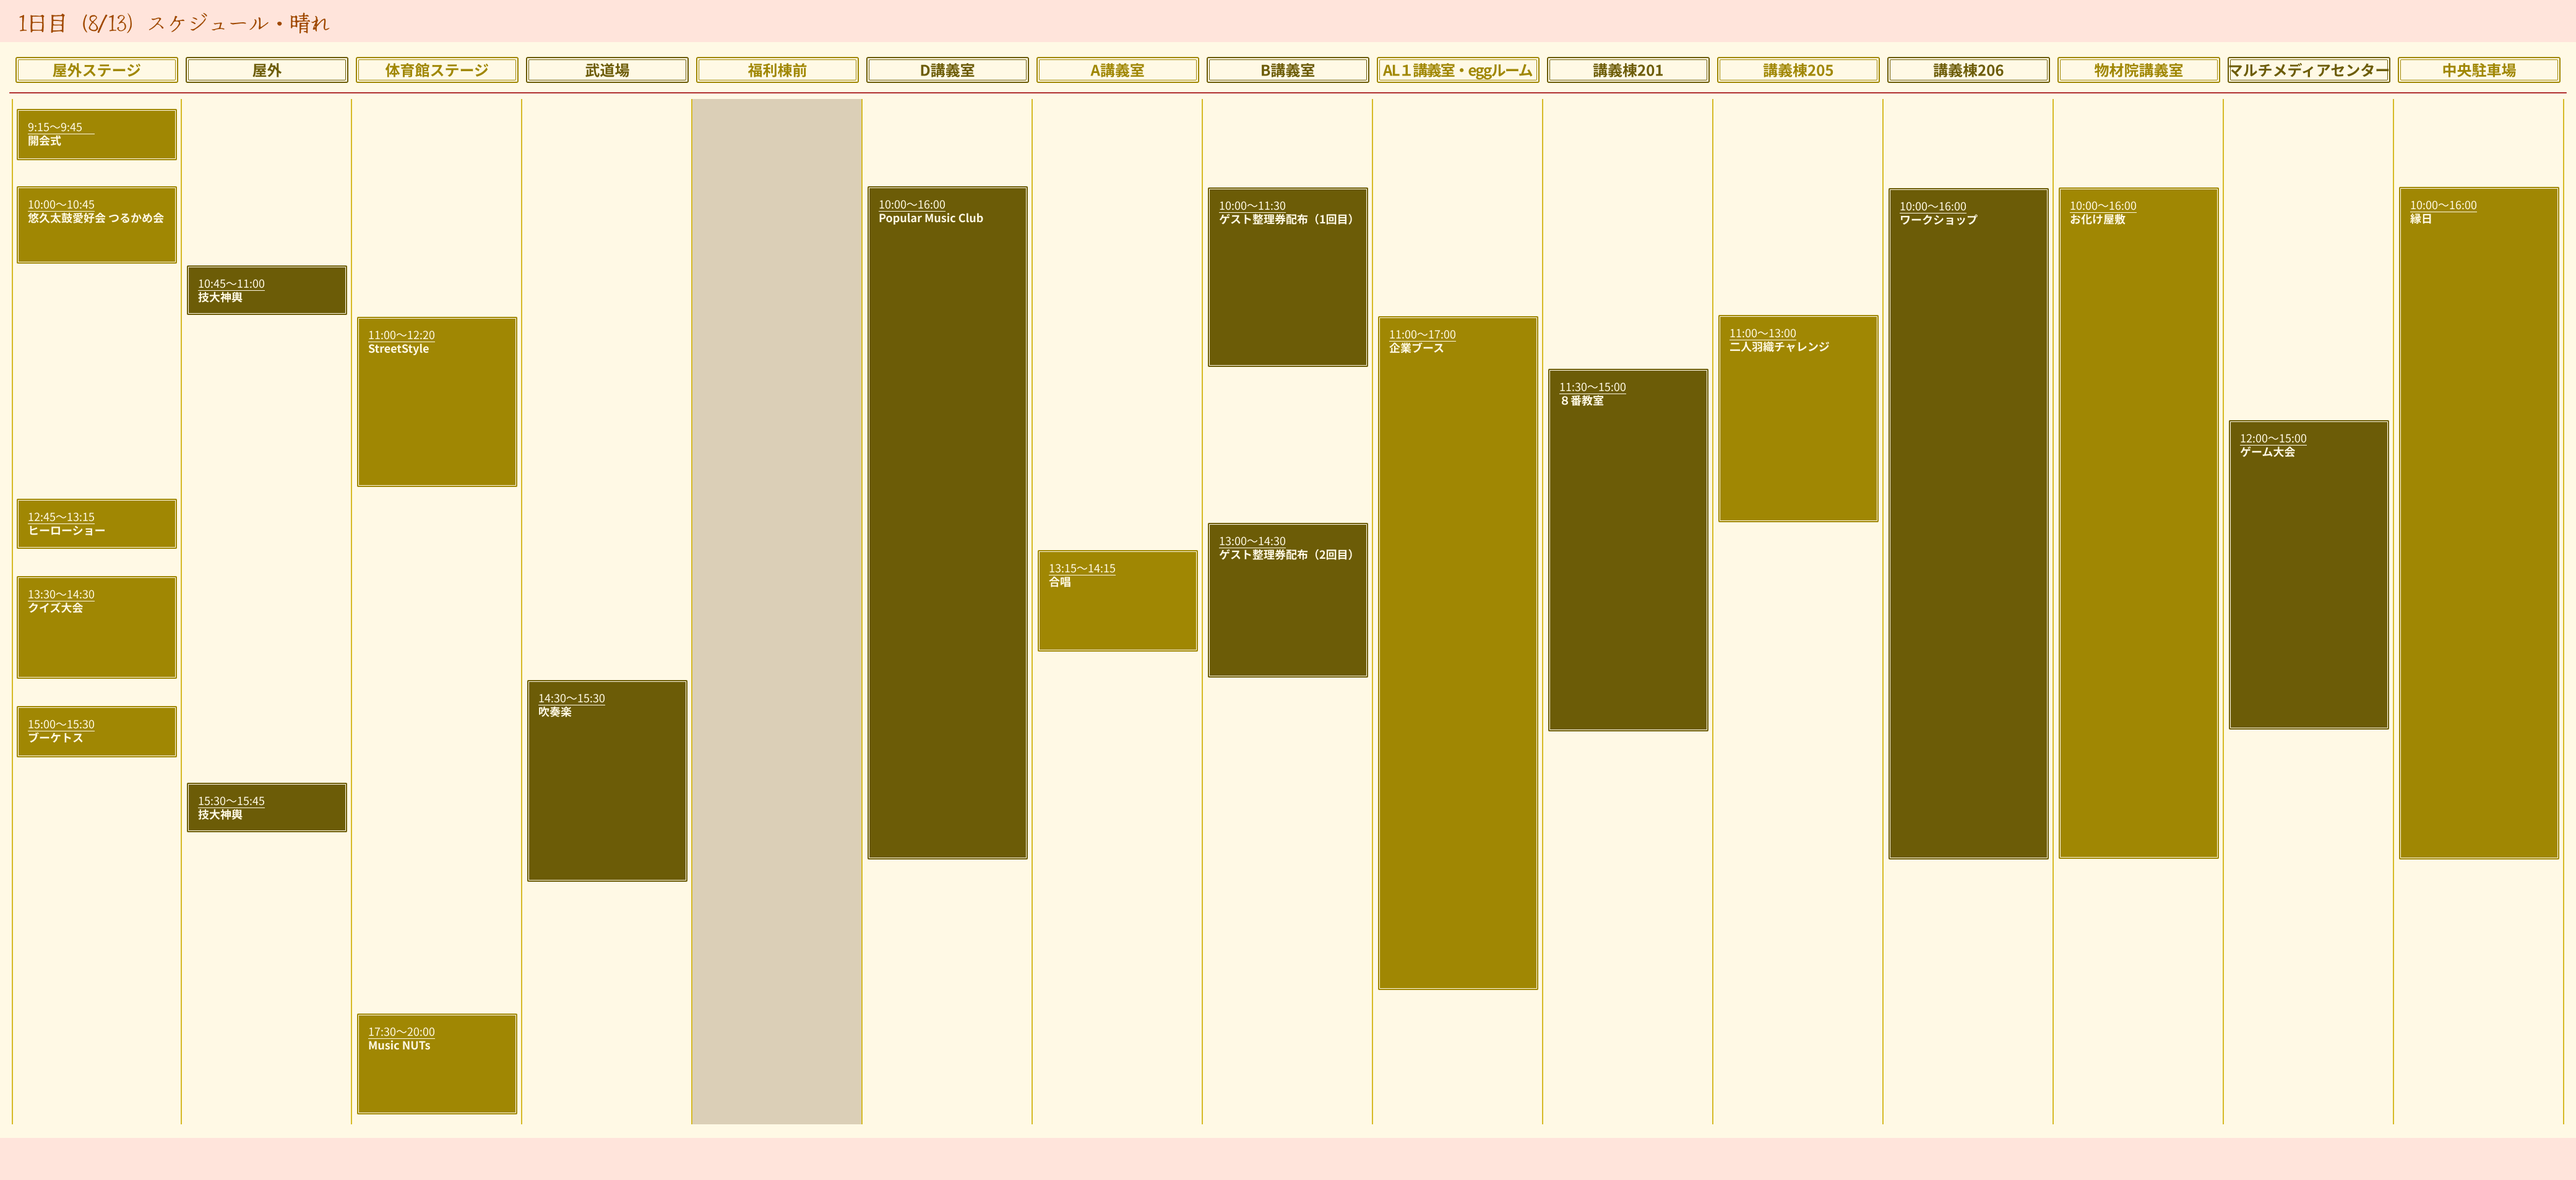
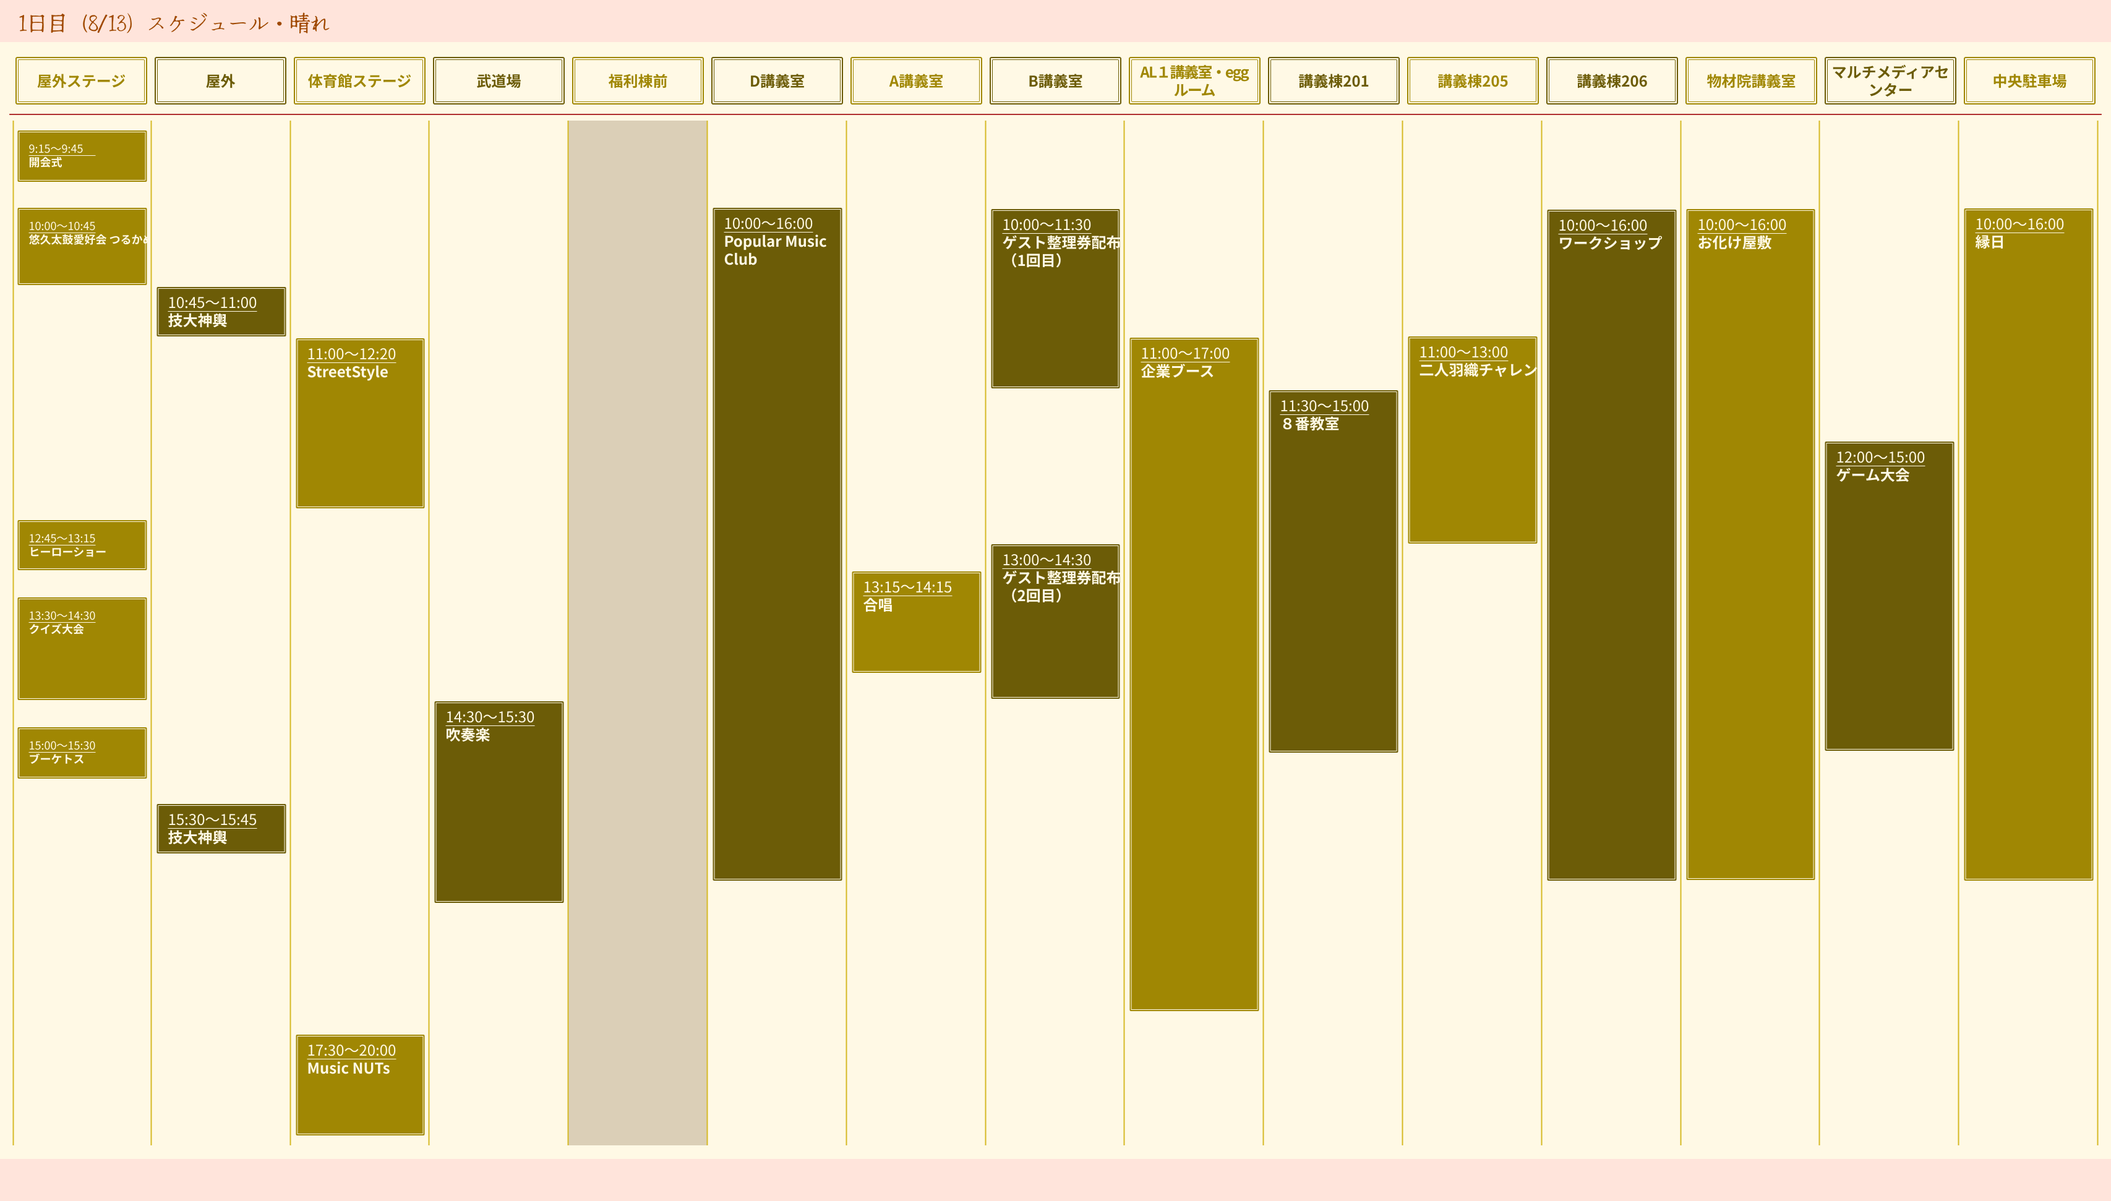
[feat]拡大縮小、全画面表示できるタイスケを作成

diff --git a/src/components/common/zoom_container.tsx b/src/components/common/zoom_container.tsx
@@ -1,10 +1,13 @@
 'use client';
 
+import React, { ReactNode, useEffect, useRef, useState } from 'react';
+import { FaAngleLeft, FaAngleRight } from 'react-icons/fa6';
 import { useSwipeable } from 'react-swipeable';
-import { ReactNode, useState, useEffect } from 'react';
-import { TransformWrapper, TransformComponent } from 'react-zoom-pan-pinch';
-import { FaAngleRight, FaAngleLeft } from 'react-icons/fa6';
-import React from 'react';
+import {
+  ReactZoomPanPinchRef,
+  TransformComponent,
+  TransformWrapper,
+} from 'react-zoom-pan-pinch';
 
 type ZoomCarouselProps = {
   children: ReactNode;
@@ -21,6 +24,8 @@ export default function ZoomCarousel({
 }: ZoomCarouselProps) {
   const slides = React.Children.toArray(children);
   const [currentIndex, setCurrentIndex] = useState(0);
+  const [isZoomedOrPanned, setIsZoomedOrPanned] = useState(false);
+  const transformWrapperRef = useRef<ReactZoomPanPinchRef | null>(null);
 
   const nextSlide = () => {
     setCurrentIndex((prev) => (prev + 1) % slides.length);
@@ -33,10 +38,20 @@ export default function ZoomCarousel({
   useEffect(() => {
     if (!autoSlide) return;
     const timer = setInterval(() => {
-      nextSlide();
+      if (!isZoomedOrPanned) {
+        nextSlide();
+      }
     }, autoSlideInterval);
     return () => clearInterval(timer);
-  }, [autoSlide, autoSlideInterval, currentIndex]);
+  }, [autoSlide, autoSlideInterval, currentIndex, isZoomedOrPanned]);
+
+  const handleTransformed = (ref: ReactZoomPanPinchRef) => {
+    const currentlyTransformed =
+      ref.state.scale > 1 ||
+      ref.state.positionX !== 0 ||
+      ref.state.positionY !== 0;
+    setIsZoomedOrPanned(currentlyTransformed);
+  };
 
   const swipeHandlers = useSwipeable({
     onSwipedLeft: nextSlide,
@@ -44,12 +59,13 @@ export default function ZoomCarousel({
     preventScrollOnSwipe: false,
     trackTouch: true,
     trackMouse: false,
+    delta: isZoomedOrPanned ? 10000 : 10,
   });
 
   return (
     <div
       className="relative w-full overflow-hidden"
-      style={{ height }}
+      style={{ height: height || '400px' }} // height propsを確実に反映
       {...swipeHandlers}
     >
       <div
@@ -66,7 +82,7 @@ export default function ZoomCarousel({
               width: `${100 / slides.length}%`,
               flexShrink: 0,
               height,
-              overflow: 'auto',
+              overflow: 'hidden',
               WebkitOverflowScrolling: 'touch',
               touchAction: 'manipulation',
               overscrollBehavior: 'contain',
@@ -76,9 +92,10 @@ export default function ZoomCarousel({
             className="scrollbar-custom"
           >
             <TransformWrapper
-              initialScale={1.1} // ← 少し拡大してパン操作を有効化
+              ref={transformWrapperRef}
+              initialScale={2} //初期スケール
               minScale={1}
-              maxScale={5}
+              maxScale={6}
               wheel={{ step: 0.2 }}
               pinch={{ disabled: false }}
               doubleClick={{ disabled: true }}
@@ -88,15 +105,17 @@ export default function ZoomCarousel({
                 lockAxisX: false,
                 lockAxisY: false,
               }}
+              onTransformed={handleTransformed}
             >
               <TransformComponent>
                 <div
                   style={{
-                    width: 'max-content',
-                    height: 'max-content',
-                    padding: '1rem',
+                    width: '100%',
+                    height: '100%',
+
                     boxSizing: 'border-box',
-                    cursor: 'grab',
+                    cursor: isZoomedOrPanned ? 'grab' : 'default',
+                    overflow: 'hidden',
                   }}
                   className="grabbable"
                 >
@@ -107,21 +126,25 @@ export default function ZoomCarousel({
           </div>
         ))}
       </div>
-
+      ---
       {/* ← Navigation Buttons */}
       <button
         onClick={prevSlide}
         className="absolute left-2 top-1/2 transform -translate-y-1/2 z-20 bg-dark_back text-white p-2 rounded-sm"
+        // disabled={isZoomedOrPanned} は引き続き削除
+        style={{ opacity: 1, cursor: 'pointer' }} // ここを変更: opacityとcursorを固定
       >
         <FaAngleLeft />
       </button>
       <button
         onClick={nextSlide}
         className="absolute right-2 top-1/2 transform -translate-y-1/2 z-20 bg-dark_back text-white p-2 rounded-sm"
+        // disabled={isZoomedOrPanned} は引き続き削除
+        style={{ opacity: 1, cursor: 'pointer' }} // ここを変更: opacityとcursorを固定
       >
         <FaAngleRight />
       </button>
-
+      ---
       {/* ← Dots Navigation */}
       <div className="absolute bottom-2 left-1/2 transform -translate-x-1/2 flex space-x-2">
         {slides.map((_, index) => (
@@ -131,6 +154,7 @@ export default function ZoomCarousel({
             className={`w-2 h-2 rounded-full border border-main ${
               currentIndex === index ? 'bg-main' : 'bg-white_back'
             }`}
+            style={{ cursor: 'pointer' }}
           />
         ))}
       </div>

diff --git a/src/components/common/image_modal.tsx b/src/components/common/image_modal.tsx
@@ -1,5 +1,6 @@
 // components/ImageModal.js
 'use client';
+import React from 'react';
 import Image from 'next/image';
 import { useState } from 'react';
 import { createPortal } from 'react-dom';
@@ -7,8 +8,8 @@ import { createPortal } from 'react-dom';
 export default function ImageModal({
   src,
   alt,
-  width = 300,
-  height = 200
+  width = 300, // 初期表示用
+  height = 200 // 初期表示用
 }) {
   const [isOpen, setIsOpen] = useState(false);
 
@@ -17,6 +18,7 @@ export default function ImageModal({
 
   return (
     <>
+      {/* モーダルを開くトリガーとなる画像 */}
       <div
         onClick={openModal}
         style={{ cursor: 'pointer', display: 'inline-block' }}
@@ -30,10 +32,11 @@ export default function ImageModal({
         />
       </div>
 
+      {/* モーダルのコンテンツ (ポータルで描画) */}
       {isOpen &&
         createPortal(
           <div
-            onClick={closeModal}
+            onClick={closeModal} // 背景クリックでモーダルを閉じる
             style={{
               position: 'fixed',
               inset: 0,
@@ -44,19 +47,34 @@ export default function ImageModal({
               justifyContent: 'center',
               alignItems: 'center',
               zIndex: 9999,
+              cursor: 'pointer', // 背景がクリック可能であることを示す
             }}
           >
-            <Image
-              src={src}
-              alt={alt}
-              width={1000}
-              height={800}
+            {/* モーダル内の画像コンテナ */}
+            <div
+              onClick={(e) => e.stopPropagation()} // 画像クリックでモーダルが閉じないようにイベント伝播を停止
               style={{
-                width: 'auto',
-                height: 'auto',
-                maxWidth: 'none',
+                position: 'relative', // Imageのfillプロパティの基準になる
+                maxWidth: '90vw', // 画面の幅の90%を最大値とする
+                maxHeight: '90vh', // 画面の高さの90%を最大値とする
+                width: '100%',     // maxWidth/maxHeightの範囲内で可能な限り幅を広げる
+                height: '100%',    // maxWidth/maxHeightの範囲内で可能な限り高さを広げる
+                display: 'flex',   // Imageを中央揃えにするため
+                justifyContent: 'center',
+                alignItems: 'center',
+                // オプション: モーダル画像の周りに枠や背景をつけたい場合
+                // border: '1px solid white',
+                // backgroundColor: 'black',
               }}
-            />
+            >
+              <Image
+                src={src}
+                alt={alt}
+                fill // ★ 最も重要: 親要素いっぱいに画像を広げる
+                style={{ objectFit: 'contain' }} // ★ 重要: アスペクト比を維持しつつ、画像がコンテナ内に収まるようにする
+                sizes="100vw" // モーダル内の画像はビューポート幅全体を占める可能性が高いので100vw
+              />
+            </div>
           </div>,
           document.body
         )}

diff --git a/src/components/common/time_schedule.tsx b/src/components/common/time_schedule.tsx
@@ -1,62 +1,30 @@
+'use client';
 import Image from 'next/image';
-import ZoomCarousel from './zoom_container';
-//image_modalでクリックで全画面表示させたかったけどzoom_container(枠内で動かせるやつ)との組み合わせが上手くいきませんでした...
+import Carousel from './carousel';
+import ZoomableImage from './zoomable_image';
+import ImageModal from './image_modal';
 const TimeSchedule: React.FC = () => {
   return (
-    <ZoomCarousel>
-      <Image
-        src="/images/time_schedule/time_1sunny.png"
-        alt="晴れ１日目"
-        width={1920}
-        height={1080}
-        style={{
-          width: 'auto',
-          height: 'auto',
-          maxWidth: 'none',
-          display: 'block',
-          objectFit: 'contain',
-        }}
-      />
-      <Image
-        src="/images/time_schedule/time_1rain.png"
-        alt="雨1日目"
-        width={1920}
-        height={1080}
-        style={{
-          width: 'auto',
-          height: 'auto',
-          maxWidth: 'none',
-          display: 'block',
-          objectFit: 'contain',
-        }}
-      />
-      <Image
-        src="/images/time_schedule/time_2sunny.png"
-        alt="晴れ2日目"
-        width={1920}
-        height={1080}
-        style={{
-          width: 'auto',
-          height: 'auto',
-          maxWidth: 'none',
-          display: 'block',
-          objectFit: 'contain',
-        }}
-      />
-      <Image
-        src="/images/time_schedule/time_2rain.png"
-        alt="雨2日目"
-        width={1920}
-        height={1080}
-        style={{
-          width: 'auto',
-          height: 'auto',
-          maxWidth: 'none',
-          display: 'block',
-          objectFit: 'contain',
-        }}
-      />
-    </ZoomCarousel>
+   <div>
+    <div className="body2 text-center text-font_khaki"><p>ピンチ操作で画像を拡大／縮小、</p><p>タップで全画面表示に切り替わります</p></div>
+   <div className="border-2 border-main rounded-sm">
+   <Carousel autoSlide={false} >
+<ZoomableImage>
+  
+  <ImageModal src="/images/time_schedule/time_1sunny.png" alt="1日目晴れ" width={3413} height={1942}/>
+</ZoomableImage>
+<ZoomableImage>
+  <ImageModal src="/images/time_schedule/time_1rain.png" alt="1日目雨" width={3413} height={1942}/>
+</ZoomableImage>
+<ZoomableImage>
+  <ImageModal src="/images/time_schedule/time_2sunny.png" alt="2日目晴れ" width={3413} height={1942}/>
+</ZoomableImage>
+<ZoomableImage>
+  <ImageModal src="/images/time_schedule/time_2rain.png" alt="2日目雨" width={3413} height={1942}/>
+</ZoomableImage>
+</Carousel>
+</div>
+</div>
   );
 };
 export default TimeSchedule;

diff --git a/src/components/common/zoomable_image.tsx b/src/components/common/zoomable_image.tsx
@@ -1,0 +1,25 @@
+import { TransformComponent, TransformWrapper } from 'react-zoom-pan-pinch';
+
+interface ZoomableImageProps {
+  children?: React.ReactNode;
+}
+
+function ZoomableImage({ children }: ZoomableImageProps) {
+  return (
+    
+    <TransformWrapper initialScale={1}>
+      <TransformComponent>
+        {/* TransformComponent の内部に position: relative の div を追加 */}
+
+
+
+{children}
+
+
+      </TransformComponent>
+    </TransformWrapper>
+
+  );
+}
+
+export default ZoomableImage;
